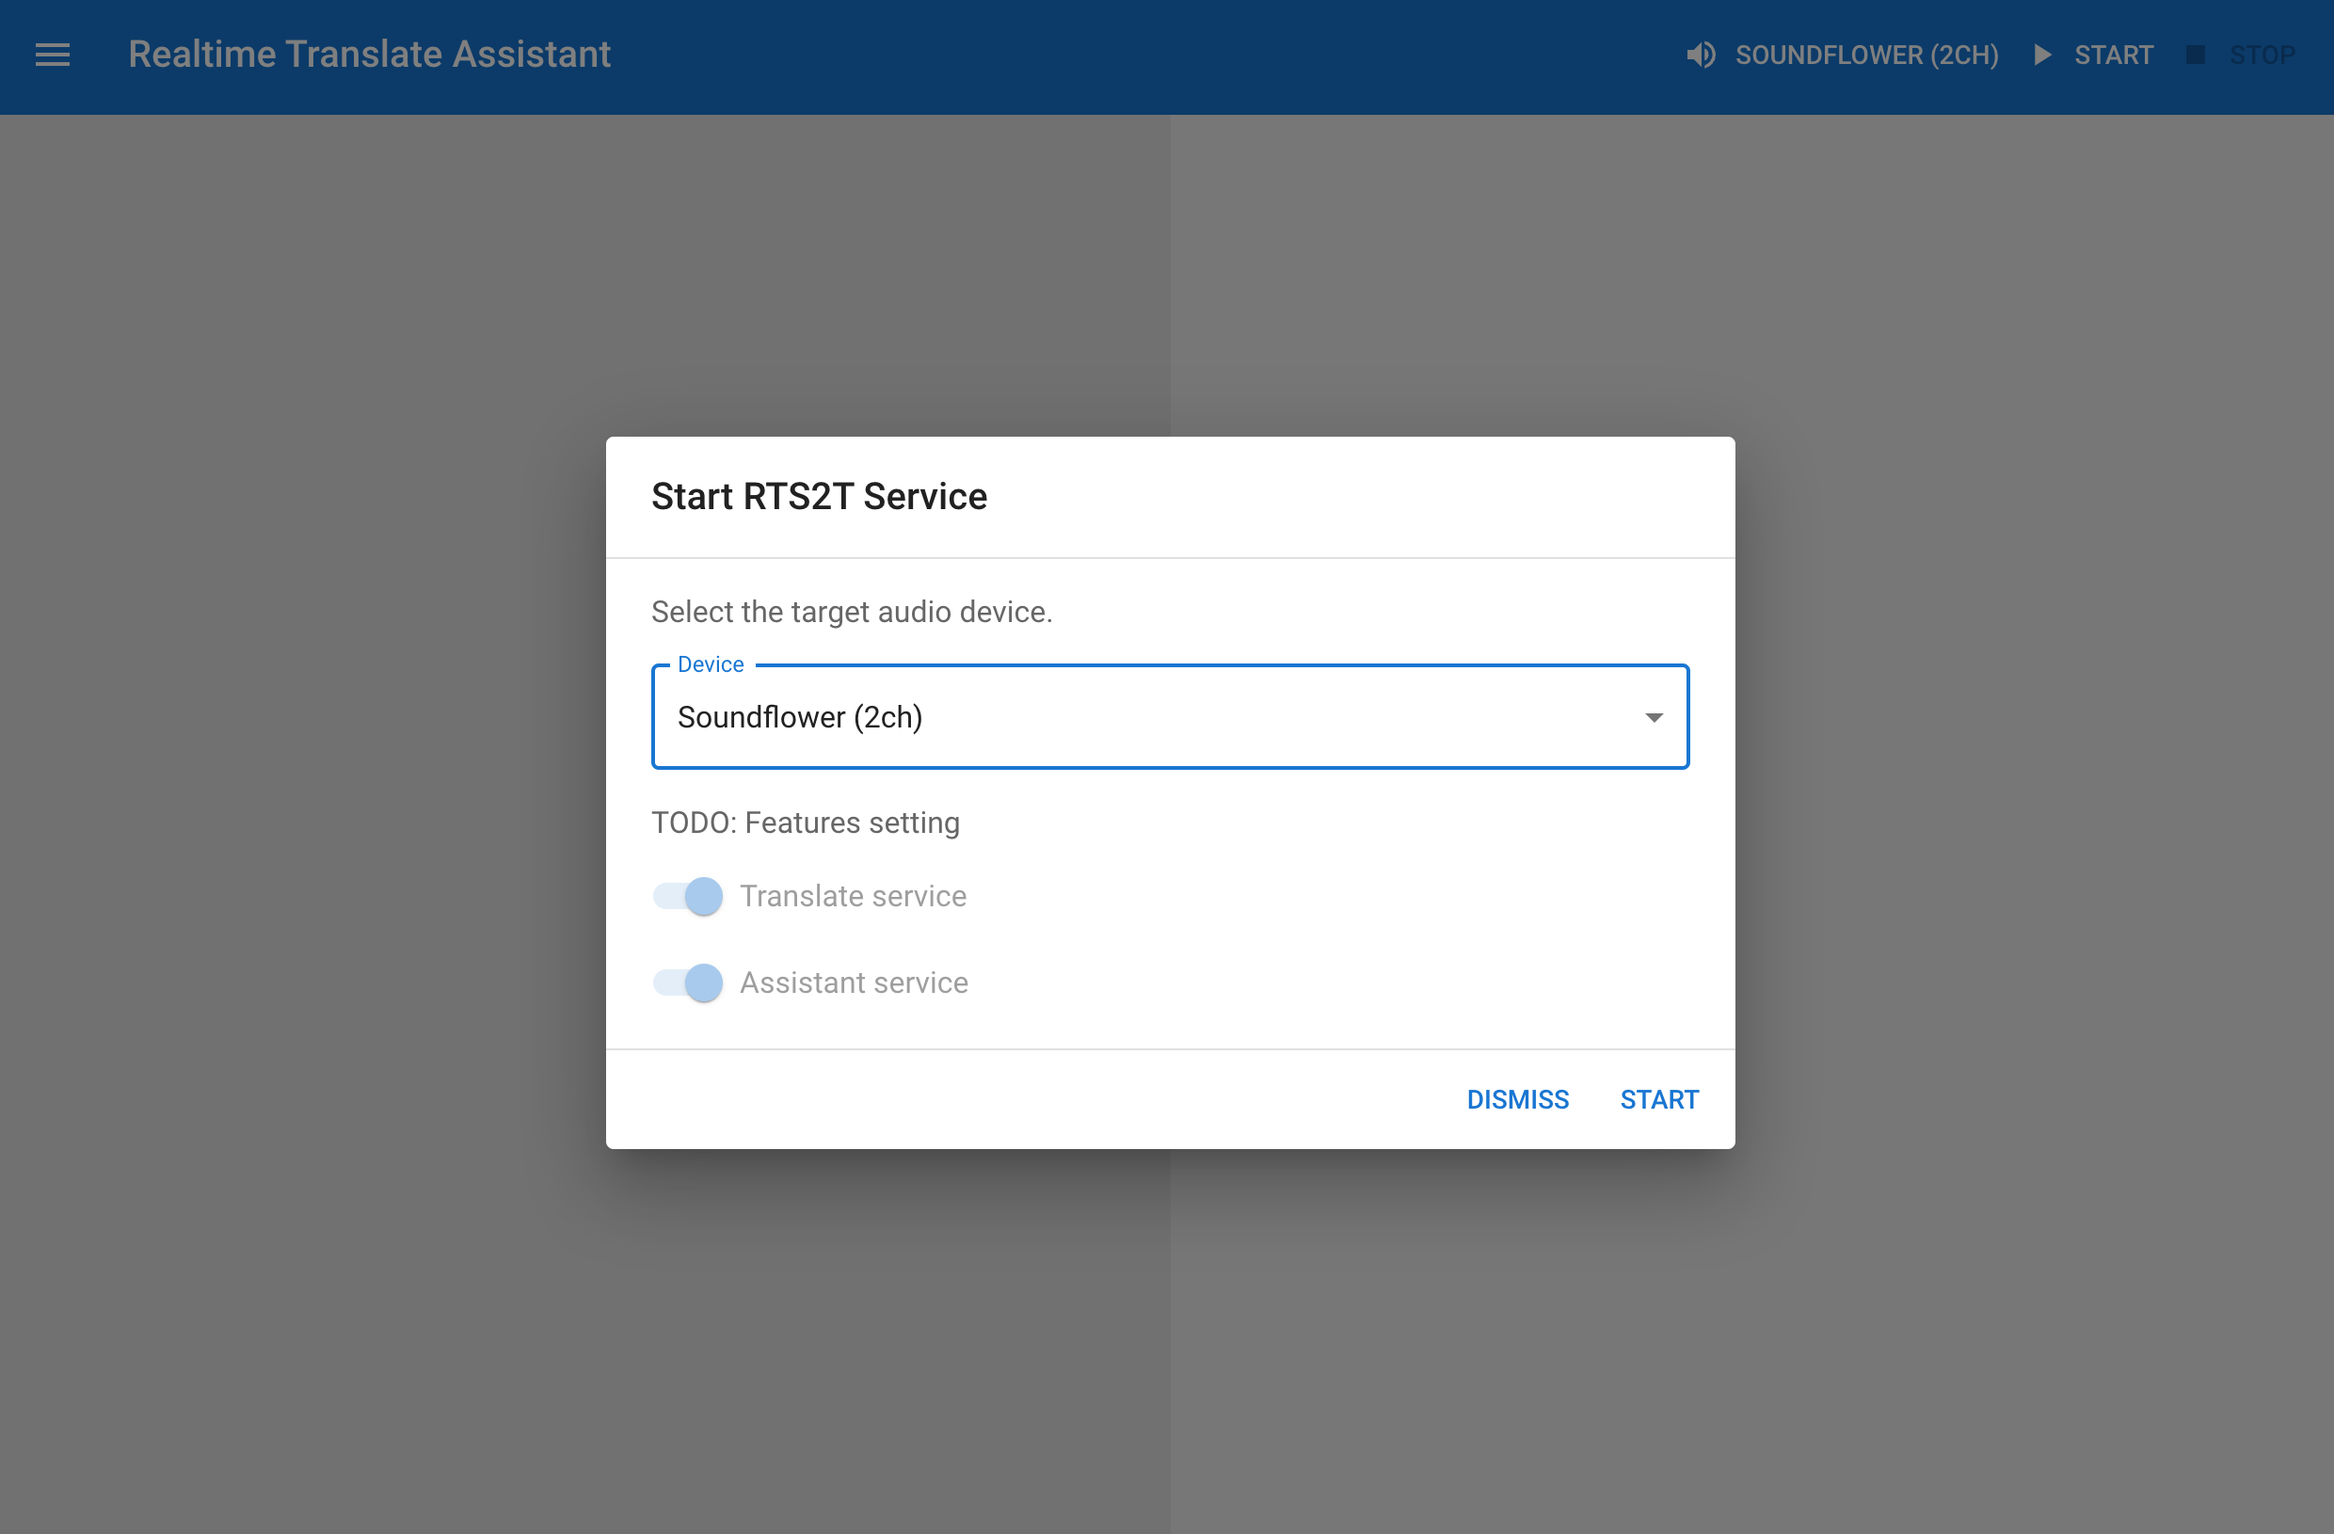
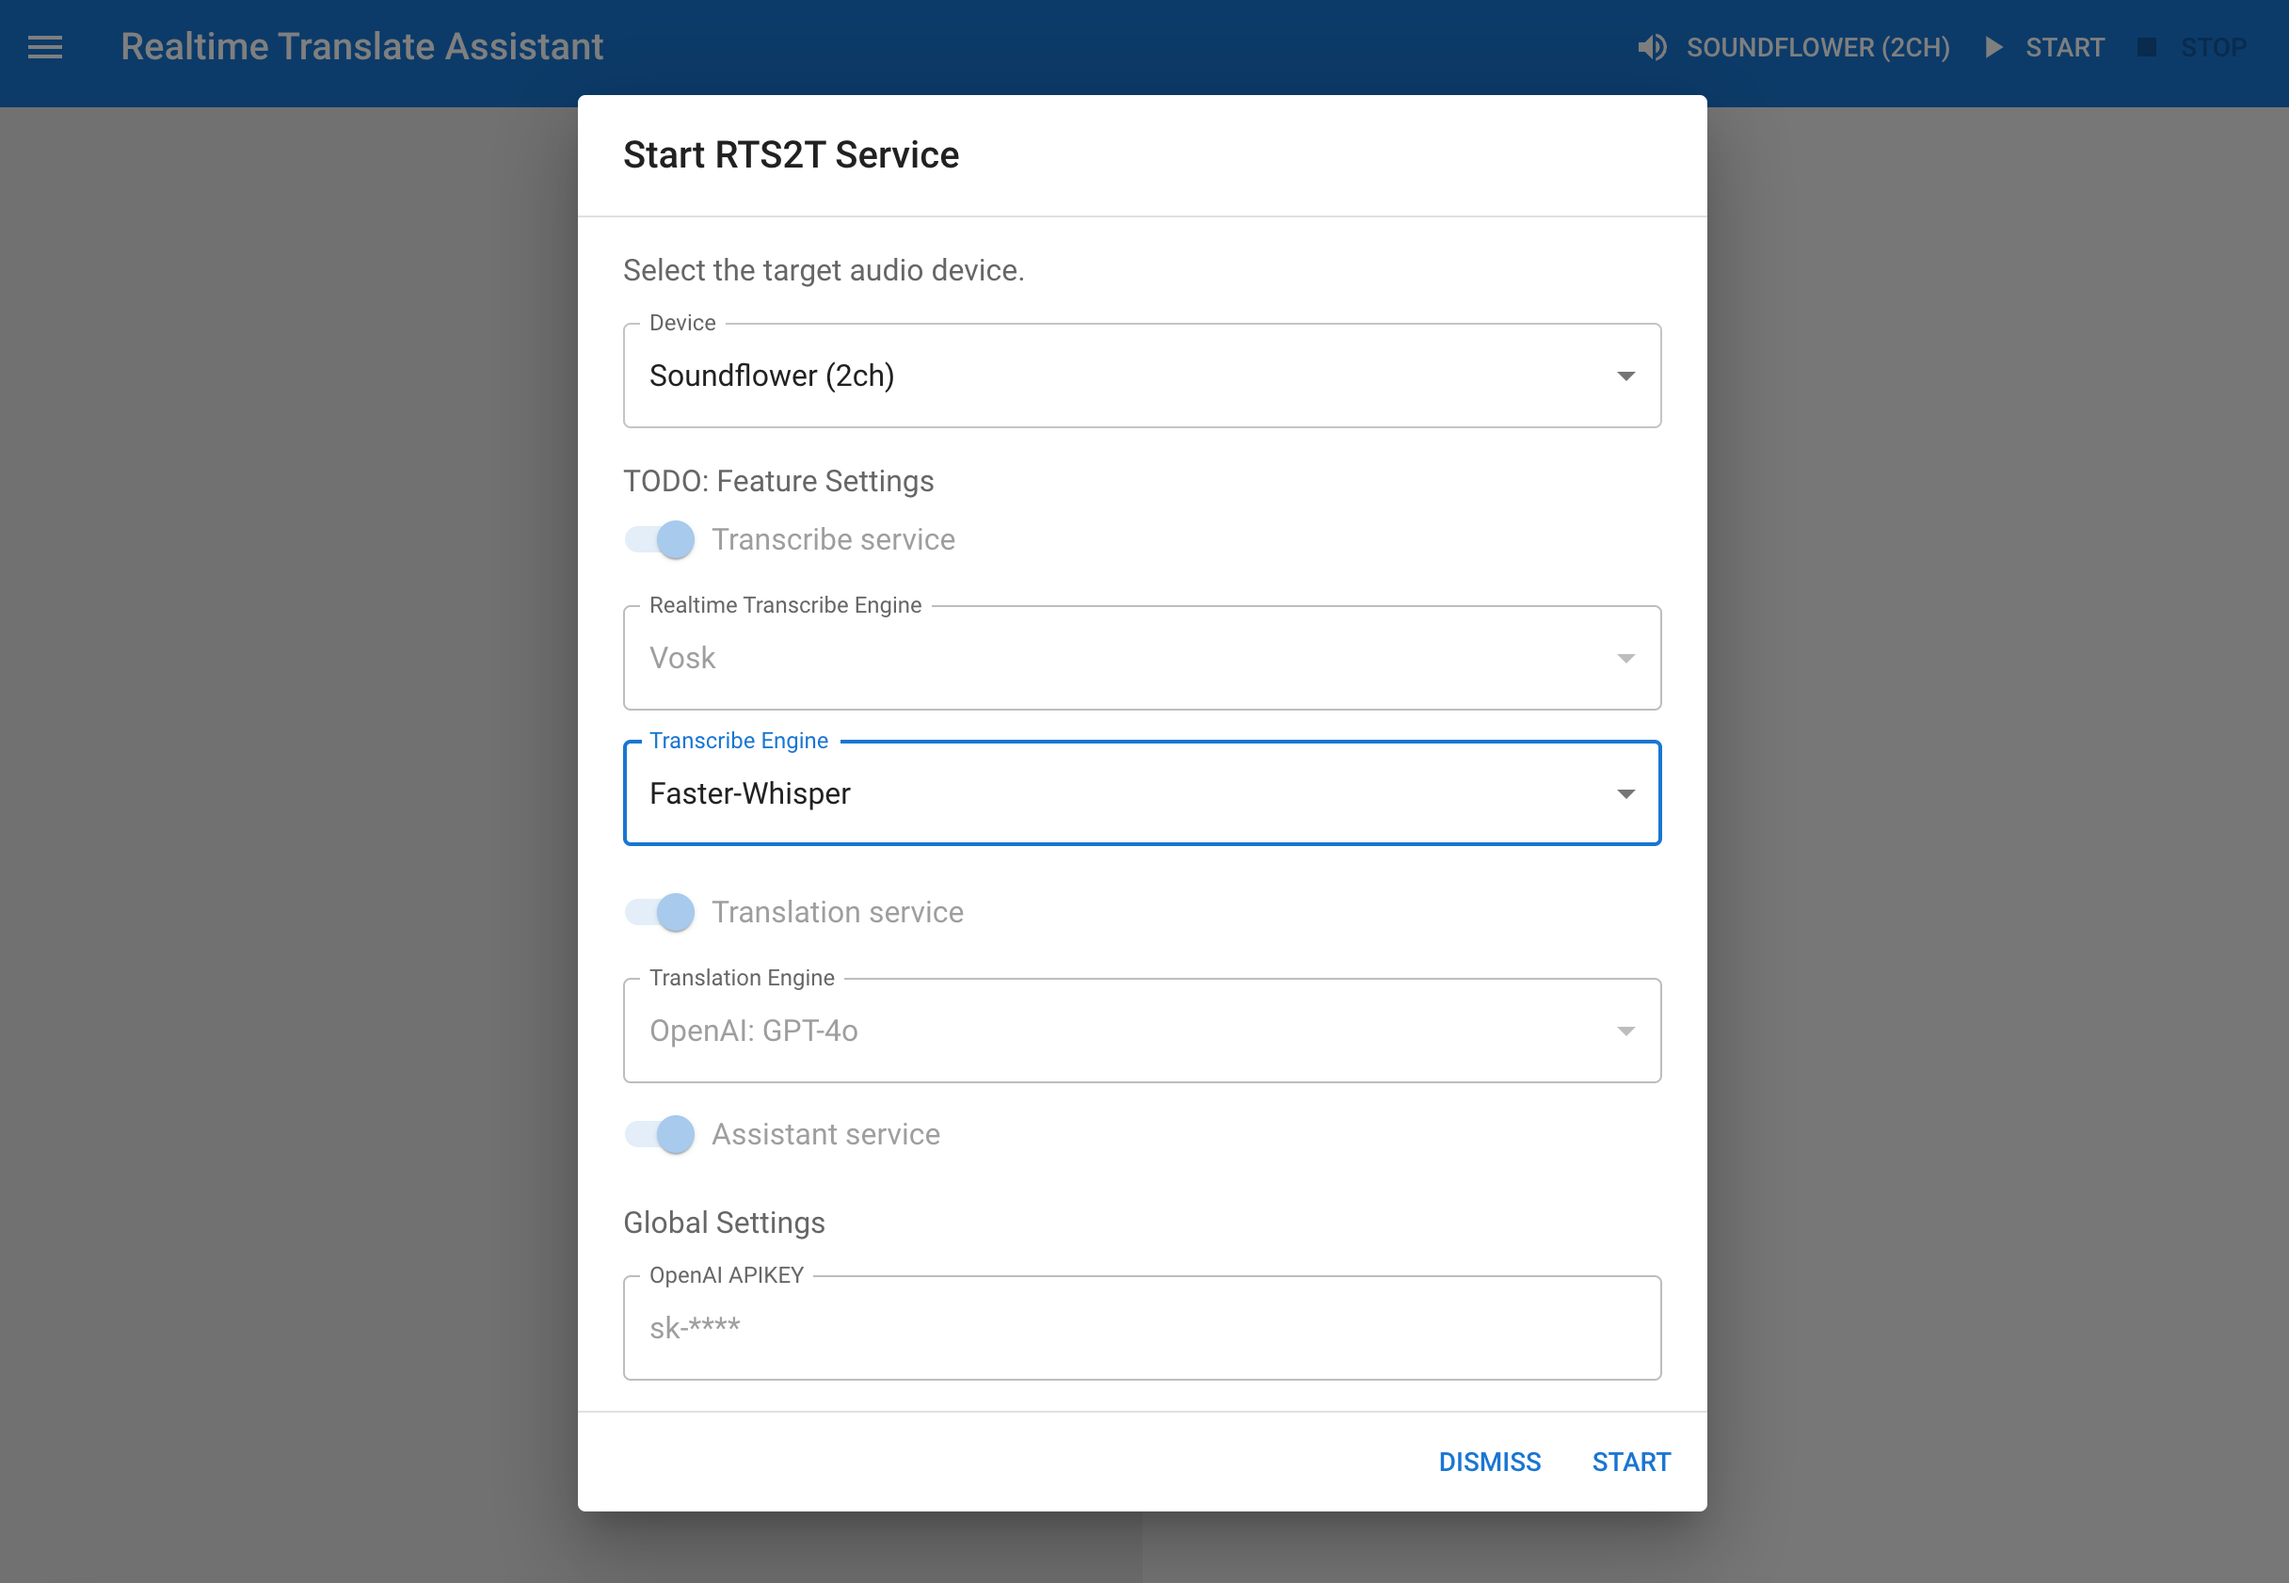
Add more options

Changed region(s): [[0.0, 0.0, 1.0, 0.9816]]

diff --git a/webui/app/src/components/Dialog/StartConfigDialog.tsx b/webui/app/src/components/Dialog/StartConfigDialog.tsx
@@ -15,6 +15,8 @@ import Switch from '@mui/material/Switch';
 import { AudioDeviceItem, AudioDeviceResponse, queryAudioDeviceList, backend_send_command, frontend_record_service } from '../../services/api';
 import { useDispatch } from 'react-redux';
 import changeDevice from '../../fetures/audioDeviceStatus/audioDeviceStatusAction';
+import TextField from '@mui/material/TextField';
+import { Divider } from '@mui/material';
 
 interface StartConfigDialogProps extends DialogProps {
     // custom props
@@ -103,16 +105,15 @@ const StartConfigDialog = ({ open, onClose }: StartConfigDialogProps) => {
                             width: 'auto',
                             whiteSpace: 'nowrap',
                         }}>
-                            <InputLabel htmlFor="device-index">Device</InputLabel>
+                            <InputLabel htmlFor="select-device">Device</InputLabel>
                             <Select
                                 autoFocus
                                 value={device}
                                 onChange={handleDeviceChange}
                                 label="Device"
-                                // inputProps={{
-                                //     name: 'device-index',
-                                //     id: 'device-index',
-                                // }}
+                                inputProps={{
+                                    id: 'select-device'
+                                }}
                             >
                                 {deviceList.map((device, index) => (
                                     <MenuItem key={'device-' + index.toString()} value={device.name}>{device.name}</MenuItem>
@@ -120,14 +121,88 @@ const StartConfigDialog = ({ open, onClose }: StartConfigDialogProps) => {
                             </Select>
                         </FormControl>
 
-                        <DialogContentText sx={{ mt: 2, }}>TODO: Features setting</DialogContentText>
+                        <DialogContentText sx={{ mt: 2, }}>TODO: Feature Settings</DialogContentText>
+
                         <FormControlLabel
-                            sx={{ mt: 1 }}
+                            sx={{ mt: 0 }}
                             control={
-                                <Switch disabled={true} checked={true} onChange={undefined} />
+                                <Switch onChange={undefined}
+                                    disabled={true}
+                                    checked={true}
+                                />
                             }
-                            label="Translate service"
+                            label="Transcribe service"
                         />
+                        <FormControl sx={{
+                            mt: 2,
+                            width: 'auto',
+                            whiteSpace: 'nowrap',
+                        }}>
+                            <InputLabel htmlFor="select-trans-engine-1">Realtime Transcribe Engine</InputLabel>
+                            <Select
+                                value="vosk"
+                                disabled={true}
+                                onChange={undefined}
+                                label="Realtime Transcribe Engine"
+                                inputProps={{
+                                    id: 'select-trans-engine-1'
+                                }}
+                            >
+                                <MenuItem value={'vosk'}>Vosk</MenuItem>
+                            </Select>
+                        </FormControl>
+
+                        <FormControl sx={{
+                            mt: 2,
+                            width: 'auto',
+                            whiteSpace: 'nowrap',
+                        }}>
+                            <InputLabel htmlFor="select-trans-engine-2">Transcribe Engine</InputLabel>
+                            <Select
+                                value="faster-whisper"
+                                disabled={false}
+                                onChange={undefined}
+                                label="Transcribe Engine"
+                                inputProps={{
+                                    id: 'select-trans-engine-2'
+                                }}
+                            >
+                                <MenuItem value={'faster-whisper'}>Faster-Whisper</MenuItem>
+                                <MenuItem value={'vosk'}>Vosk</MenuItem>
+                                <MenuItem value={'openai-whisper'}>OpenAI-Whisper</MenuItem>
+                            </Select>
+                        </FormControl>
+
+                        <FormControlLabel
+                            sx={{ mt: 2 }}
+                            control={
+                                <Switch onChange={undefined}
+                                    disabled={true}
+                                    checked={true}
+                                />
+                            }
+                            label="Translation service"
+                        />
+
+                        <FormControl sx={{
+                            mt: 2,
+                            width: 'auto',
+                            whiteSpace: 'nowrap',
+                        }}>
+                            <InputLabel htmlFor="select-translation-engine">Translation Engine</InputLabel>
+                            <Select
+                                value="openai-gpt-4o"
+                                disabled={true}
+                                onChange={undefined}
+                                label="Translation Engine"
+                                inputProps={{
+                                    id: 'select-translation-engine'
+                                }}
+                            >
+                                <MenuItem value={'openai-gpt-4o'}>OpenAI: GPT-4o</MenuItem>
+                            </Select>
+                        </FormControl>
+
                         <FormControlLabel
                             sx={{ mt: 1 }}
                             control={
@@ -135,6 +210,21 @@ const StartConfigDialog = ({ open, onClose }: StartConfigDialogProps) => {
                             }
                             label="Assistant service"
                         />
+
+                        <DialogContentText sx={{ mt: 2, }}>Global Settings</DialogContentText>
+
+                        <TextField sx={{
+                            mt: 2,
+                        }}
+                            id="apikey-input"
+                            label="OpenAI APIKEY"
+                            defaultValue="sk-****"
+                            InputProps={{
+                                readOnly: false,
+                                disabled: true,
+                            }}
+                        />
+
                     </Box>
                 </DialogContent>
                 <DialogActions>
